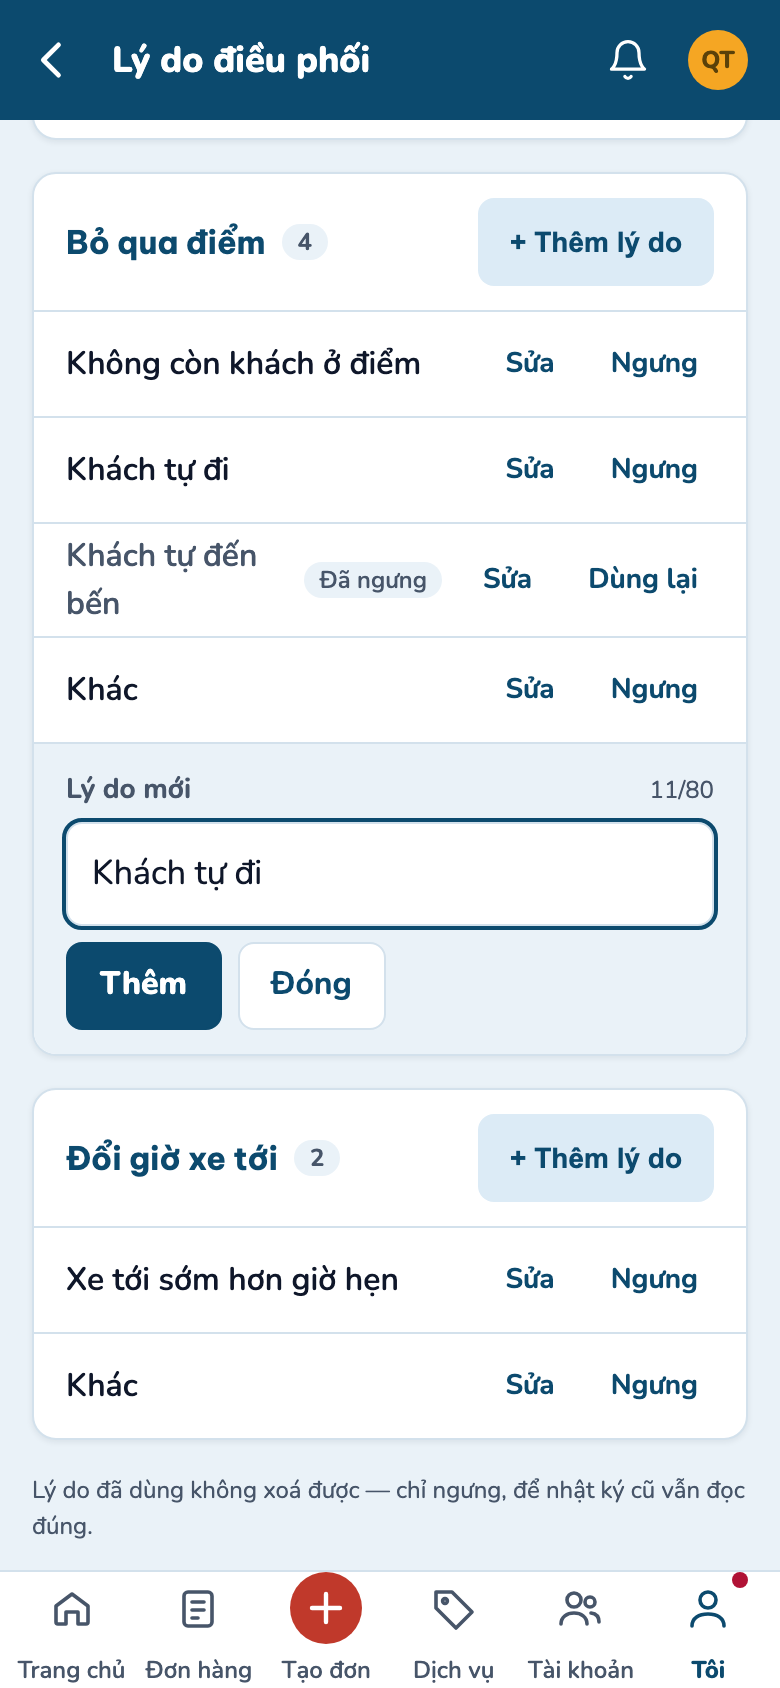
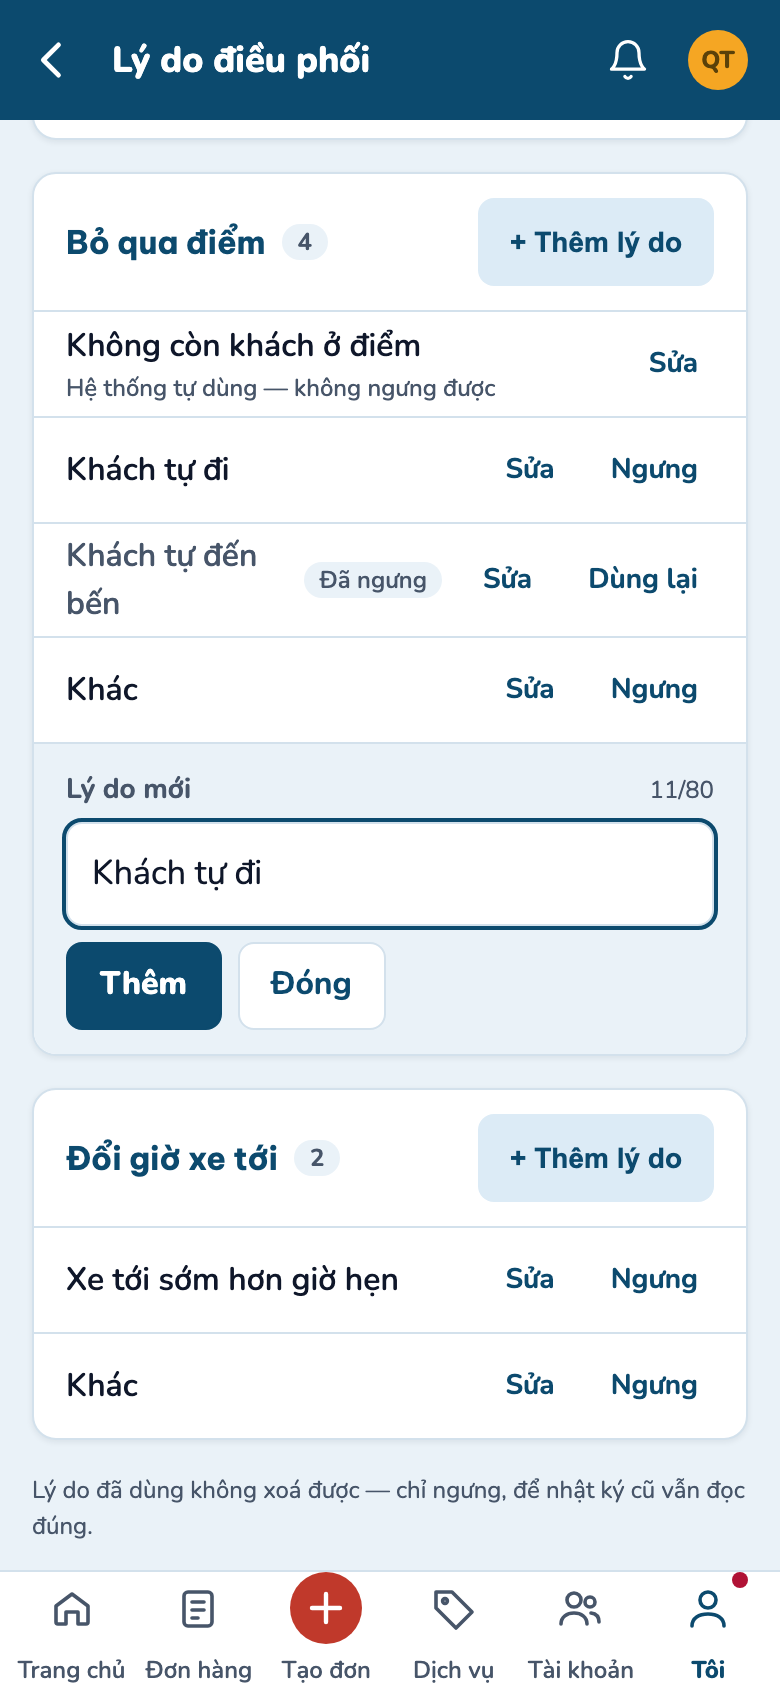
R-P22 (Q-B-3): lý do hệ thống không có nút "Ngưng"; 409 ly_do_he_thong hiện câu lời thường
Vì sao: điều phối chốt mã lý do hệ thống (máy tự ghi, vd "Không còn khách ở điểm") không
được ngưng; máy chủ đã thêm cờ heThong + 409 ly_do_he_thong (gộp ở d1f01a4). Giao diện ẩn nút
"Ngưng" theo cờ (hàm thuần nutBatTatLyDo — bài đỏ trước, xanh sau), thay bằng ghi chú "Hệ
thống tự dùng — không ngưng được"; lý do đang ngưng vẫn "Dùng lại" được. Kịch bản B8: bước 8
khẳng định không nút + có ghi chú; bước 9b giả lập dữ liệu cũ (chỉ trên một trang) để bấm
Ngưng → máy chủ thật 409 → dải lỗi câu của máy chủ. 14/14; P16: bỏ ẩn nút → bước 8 đỏ.

Claude-Session: https://claude.ai/code/session_012uzHHEgA3ZBQkvhnpB7ynZ

diff --git a/web/ly-do-dieu-phoi.ts b/web/ly-do-dieu-phoi.ts
@@ -2,7 +2,7 @@
 // Quản trị, Toàn quyền (ô admin.manage — máy chủ hỏi lại ở cả route đọc). Theo nhóm (nhãn nhóm từ NHAN_NHOM_LY_DO — một nguồn với nhật ký); thêm, sửa tên,
 // ngưng / dùng lại — không xoá (khuôn loc_location). Màn hình KHÔNG có ô mã (bản vẽ 8d chỉ "Lý do mới"): mã sinh từ nhãn (`maLyDoMoi`), trùng mã → thử hậu tố.
 // Nút trong khung thêm / sửa đều `type="button"`; mở khung thì đặt focus vào ô, đóng thì trả focus về nút đã mở.
-import { maLyDoMoi, nhomLyDoHien, thuTuLyDoMoi, type NhomHien } from "../src/shared/chinh-sach-hien-thi";
+import { maLyDoMoi, nhomLyDoHien, nutBatTatLyDo, thuTuLyDoMoi, type NhomHien } from "../src/shared/chinh-sach-hien-thi";
 import type { NhomLyDo } from "../src/shared/dieu-phoi-kieu";
 import { can } from "../src/shared/permissions";
 import { ApiError, api, type Api } from "./api";
@@ -128,8 +128,12 @@ function moKhung(k: Khung): void {
 function dongLyDo(n: NhomHien, l: Api.TripReasonDto): HTMLElement {
   const sua = h("button", { type: "button", class: "vc-btn vc-btn-text", "data-action": "sua", "aria-label": `Sửa lý do ${l.label}` }, "Sửa");
   sua.addEventListener("click", () => moKhung({ nhom: n.nhom, kieu: "sua", code: l.code }));
-  const bat = h("button", { type: "button", class: "vc-btn vc-btn-text", "data-action": l.active ? "ngung" : "dung-lai", "aria-label": `${l.active ? "Ngưng" : "Dùng lại"} lý do ${l.label}` }, l.active ? "Ngưng" : "Dùng lại");
-  bat.addEventListener("click", () =>
+  // R-P22 (Q-B-3): lý do HỆ THỐNG đang dùng không có nút "Ngưng" — chỉ ghi chú; máy chủ vẫn chặn (409 `ly_do_he_thong`, câu của máy chủ hiện ở dải lỗi).
+  const nb = nutBatTatLyDo(l);
+  const bat = nb.nut
+    ? h("button", { type: "button", class: "vc-btn vc-btn-text", "data-action": l.active ? "ngung" : "dung-lai", "aria-label": `${nb.nut} lý do ${l.label}` }, nb.nut)
+    : null;
+  bat?.addEventListener("click", () =>
     void ghi(async () => {
       reasons = (await api<Api.TripReasonListResponse>(`/api/van-chuyen/ly-do/${encodeURIComponent(l.code)}`, {
         method: "PUT", body: { label: l.label, sortOrder: l.sortOrder, active: !l.active, expectedUpdatedAt: l.updatedAt },
@@ -140,7 +144,7 @@ function dongLyDo(n: NhomHien, l: Api.TripReasonDto): HTMLElement {
   return h(
     "div",
     { class: l.active ? "dp-reason" : "dp-reason is-off", "data-code": l.code },
-    h("span", { class: "dp-reason-label" }, l.label),
+    h("span", { class: "dp-reason-label" }, l.label, nb.ghiChu ? h("span", { class: "dp-reason-sub", "data-he-thong": "1" }, nb.ghiChu) : null),
     l.active ? null : h("span", { class: "chip chip-muted" }, "Đã ngưng"),
     sua,
     bat,

diff --git a/src/shared/chinh-sach-hien-thi.test.ts b/src/shared/chinh-sach-hien-thi.test.ts
@@ -3,7 +3,7 @@
 import { test } from "node:test";
 import assert from "node:assert/strict";
 import {
-  NHOM_LY_DO_HIEN, docDieuKienMoi, docFormChinhSach, docSoKhachHang, nhanSoKhachHang, dongLichSuChinhSach, formTuChinhSach, gioTuPhut, maLyDoMoi, nhanDieuKien, nhanThoiLuong, nhomLyDoHien, thayDoiChinhSach,
+  NHOM_LY_DO_HIEN, docDieuKienMoi, docFormChinhSach, docSoKhachHang, nhanSoKhachHang, nutBatTatLyDo, dongLichSuChinhSach, formTuChinhSach, gioTuPhut, maLyDoMoi, nhanDieuKien, nhanThoiLuong, nhomLyDoHien, thayDoiChinhSach,
   thuTuLyDoMoi, tomTatChinhSach,
 } from "./chinh-sach-hien-thi.ts";
 import { kiemChinhSachMoi, kiemDieuKienMoi, kiemHangBangMoi, MA_LY_DO_RE } from "../modules/van-chuyen/chinh-sach.ts";
@@ -189,4 +189,11 @@ test("nhanSoKhachHang + docSoKhachHang: lời thường của bảng hạng bằ
     const x = docSoKhachHang("B", v);
     assert.equal(x.ok ? "" : x.loi, "Số khách tối đa là số nguyên từ 1 đến 100, hoặc để trống = không giới hạn.");
   }
+});
+
+test("nutBatTatLyDo (R-P22): lý do hệ thống đang dùng → KHÔNG có nút Ngưng (chỉ ghi chú); đang ngưng thì luôn có 'Dùng lại'; lý do thường như cũ", () => {
+  assert.deepEqual(nutBatTatLyDo({ active: true, heThong: false }), { nut: "Ngưng", ghiChu: null });
+  assert.deepEqual(nutBatTatLyDo({ active: false, heThong: false }), { nut: "Dùng lại", ghiChu: null });
+  assert.deepEqual(nutBatTatLyDo({ active: true, heThong: true }), { nut: null, ghiChu: "Hệ thống tự dùng — không ngưng được" });
+  assert.deepEqual(nutBatTatLyDo({ active: false, heThong: true }), { nut: "Dùng lại", ghiChu: null });
 });

diff --git a/src/shared/chinh-sach-hien-thi.ts b/src/shared/chinh-sach-hien-thi.ts
@@ -198,3 +198,12 @@ export function thuTuLyDoMoi(trongNhom: readonly { sortOrder: number }[]): numbe
   const thuong = trongNhom.map((r) => r.sortOrder).filter((n) => n < 99);
   return thuong.length === 0 ? 1 : Math.min(98, Math.max(...thuong) + 1);
 }
+
+/**
+ * Nút bật / tắt của một lý do (R-P22, điều phối trả lời Q-B-3): lý do HỆ THỐNG đang dùng (`heThong` — máy tự ghi, vd "Không còn khách ở điểm") KHÔNG có nút
+ * "Ngưng", chỉ một ghi chú; lý do đang ngưng luôn "Dùng lại" được. Máy chủ vẫn chặn (409 `ly_do_he_thong`).
+ */
+export function nutBatTatLyDo(l: { active: boolean; heThong: boolean }): { nut: "Ngưng" | "Dùng lại" | null; ghiChu: string | null } {
+  if (!l.active) return { nut: "Dùng lại", ghiChu: null };
+  return l.heThong ? { nut: null, ghiChu: "Hệ thống tự dùng — không ngưng được" } : { nut: "Ngưng", ghiChu: null };
+}
